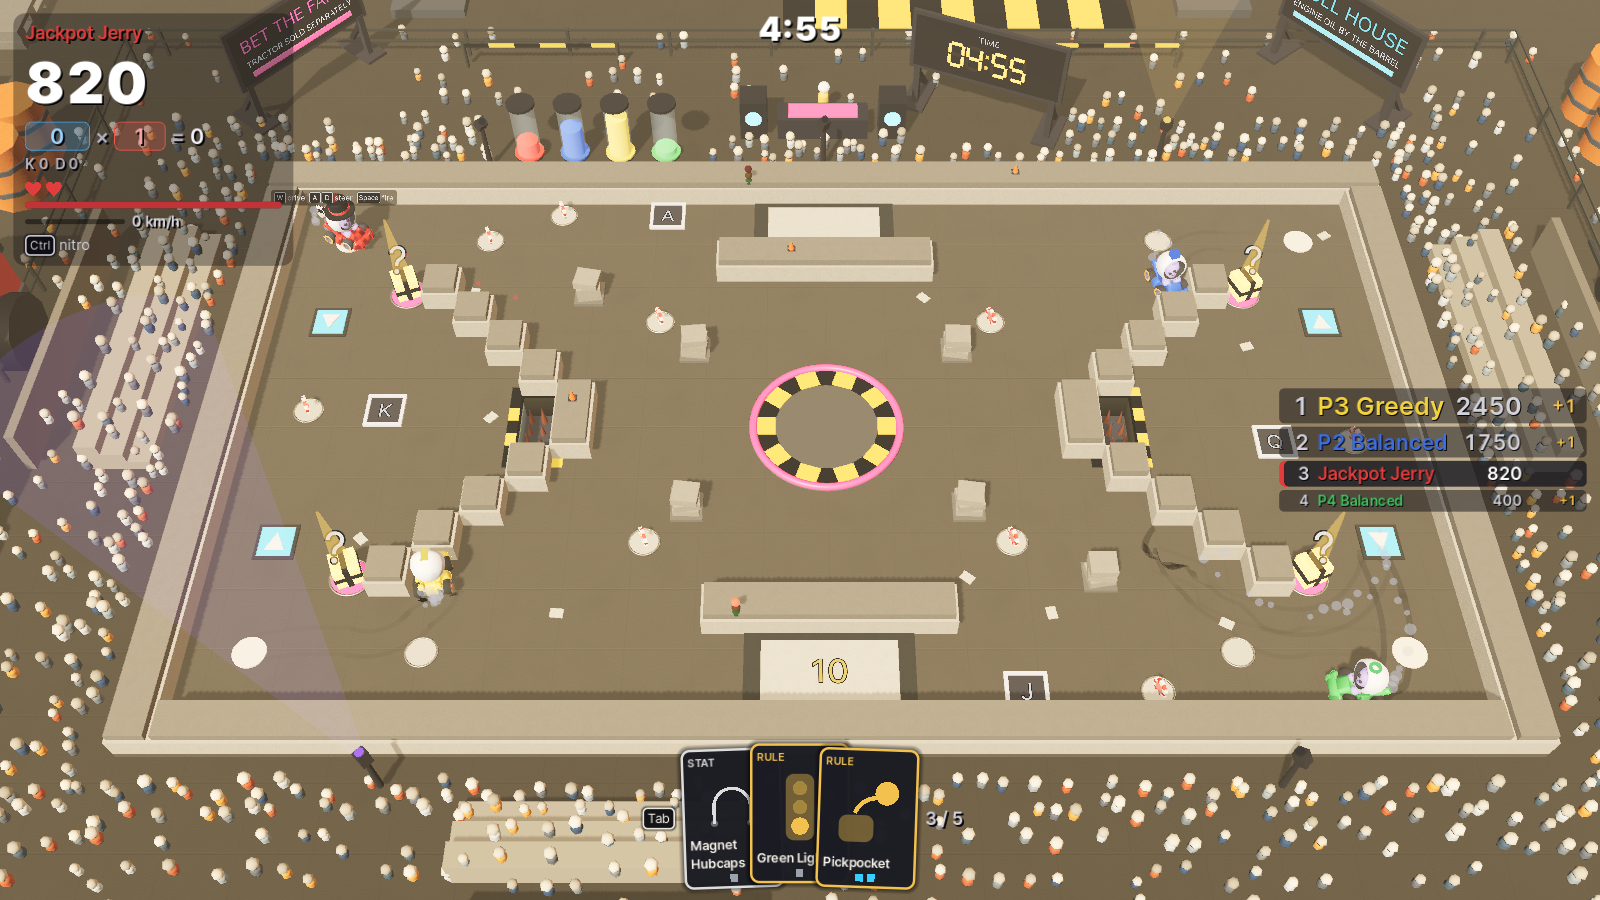
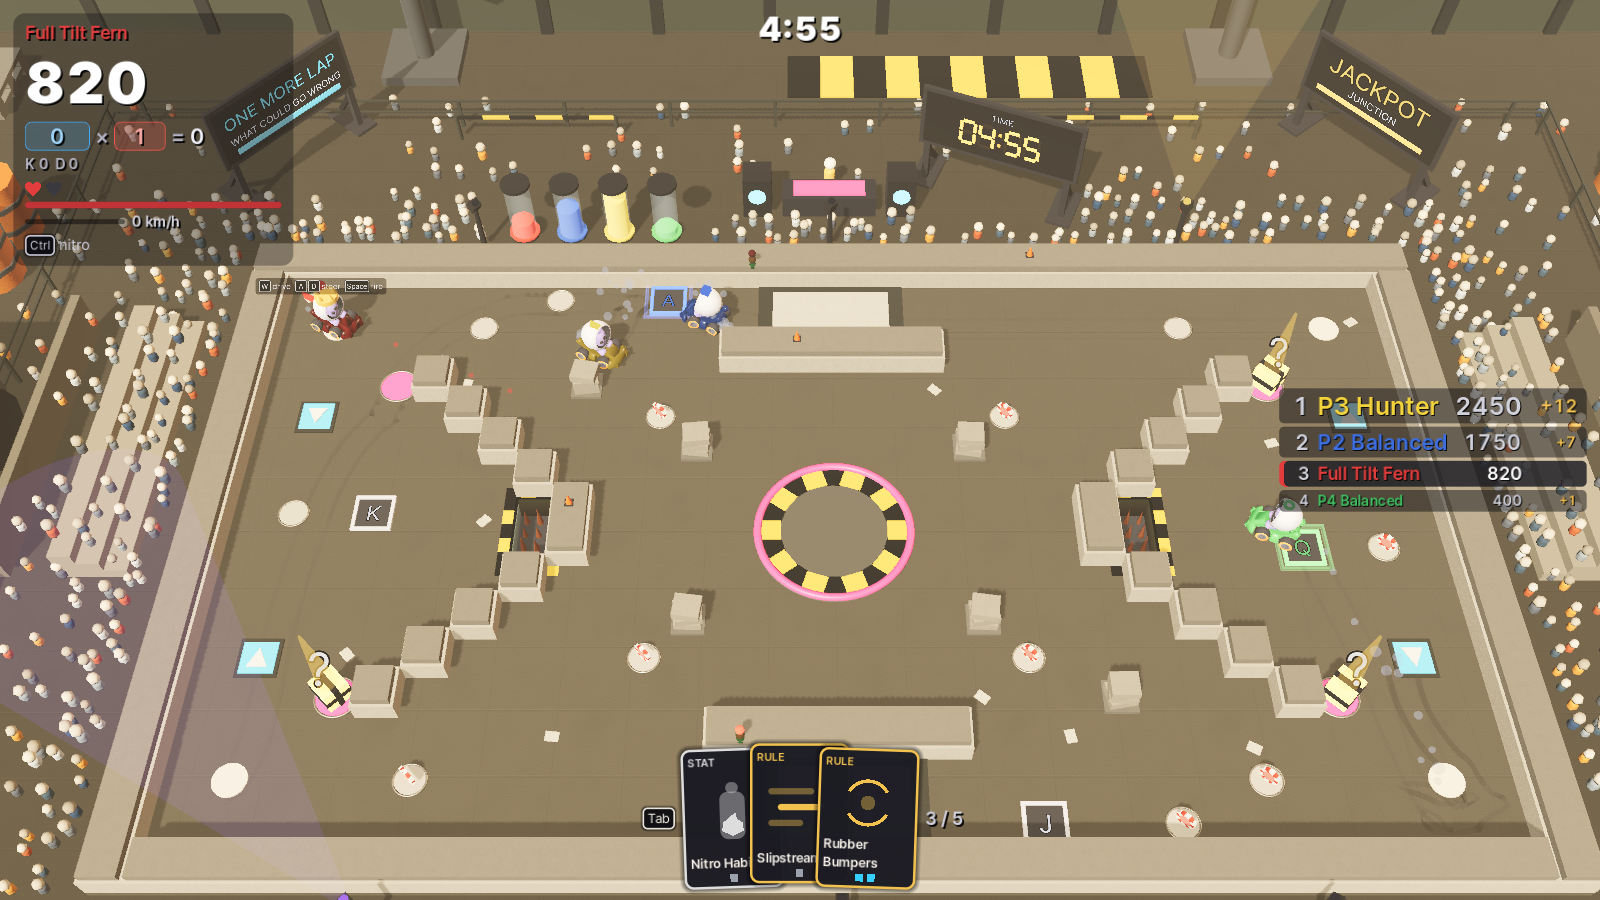
Retake the README screenshots and add one on a phone
The three rooms are taken again as the game looks now, the same way as before, and a fourth shows Crossfire on a 20:9 phone screen with the touch controls, at the UI scale a phone uses.

diff --git a/README.md b/README.md
@@ -23,6 +23,10 @@ Three arenas, three rooms to play them in.
 
 *Crossfire, in The Yard.*
 
+![A wide phone screen showing Crossfire in The Yard from above, the whole arena in view, with the touch controls drawn over it: a round stick in the lower left for the left thumb, and on the right a round Fire button beside a tall slider cut into Nitro, Gas, Reverse and Drift. The menu button sits in the top right corner with the standings under it, the player's score card is in the top left, and their hand of joker cards is along the bottom edge](docs/mobile.png)
+
+*On a phone: the stick under the left thumb, Fire and the slider under the right.*
+
 ## Playing
 
 - **Single-player**: Play opens the lobby with the match settings over it: a Grand
